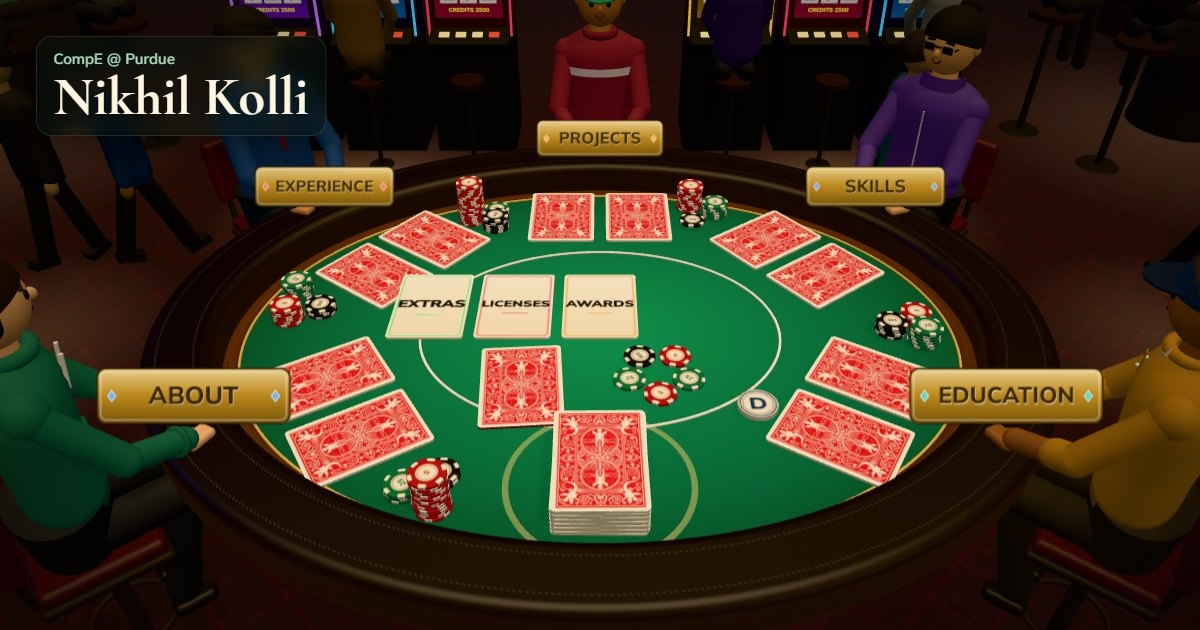
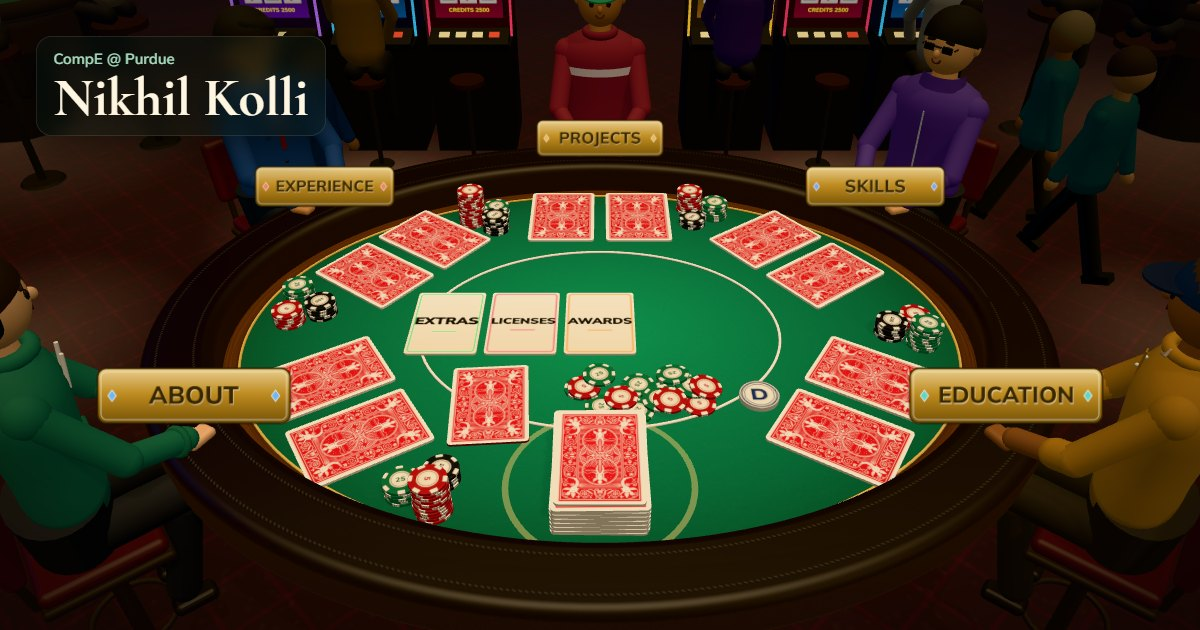
Board in the middle of the felt, a wider pot, burn pile and button moved
- The community cards move down toward the middle of the table, clear of
  the side players' hands (they ran into them before, and overlapped them
  on phones). On the narrower phone table they lie at 92% size, as do the
  burn cards, so five fit in a row.
- The pot is a wider, shallower oval between the board and the deck,
  moved right as asked; the burn pile moves right and down to its left
  and the dealer button slightly right, each clear of the board, the
  deck, the hands and the players' chips on both table sizes.
- Fresh link preview image.

diff --git a/src/three/Card3D.tsx b/src/three/Card3D.tsx
@@ -4,7 +4,7 @@ import { Html } from '@react-three/drei'
 import * as THREE from 'three'
 import { createCardFaces, getReadingFace } from './cardTextures'
 import { getCardGeometry } from './cardGeometry'
-import { CARD, DECK_TOP } from './layout'
+import { BOARD_SCALE, CARD, DECK_TOP } from './layout'
 import type { CardSlot } from './layout'
 import { SETTLED, frameStep } from './frame'
 
@@ -87,14 +87,16 @@ export function Card3D({ slot, dealt, focused, interactive, onToggle }: Card3DPr
     const face = isCommunity ? FACE_UP_X : FACE_DOWN_X
     let tp: [number, number, number] = rest
     let tr: [number, number, number] = [face, slot.yaw, 0]
-    let ts = 1
+    // Board cards rest a little smaller on the phone table (see BOARD_SCALE).
+    const restScale = isCommunity ? BOARD_SCALE : 1
+    let ts = restScale
     if (!outOfDeck) {
       tp = DECK_TOP
       tr = [FACE_DOWN_X, 0, 0]
     } else if (hovered && interactive && !focused) {
       tp = [rest[0], rest[1] + 0.26, rest[2] - 0.1]
       tr = [isCommunity ? face + HOVER_TILT : face - HOVER_TILT, slot.yaw, 0]
-      ts = 1.05
+      ts = restScale * 1.05
     }
 
     const b = base.current
@@ -111,7 +113,7 @@ export function Card3D({ slot, dealt, focused, interactive, onToggle }: Card3DPr
       b.rot[0] = lerp(FACE_DOWN_X, face, e)
       b.rot[1] = lerp(0, slot.yaw, e)
       b.rot[2] = 0
-      b.scale = 1
+      b.scale = lerp(1, restScale, e)
     } else {
       // Time-corrected smoothing so motion takes the same real-world time at
       // any frame rate (≈ the old per-frame 0.16 at 60 fps).
@@ -279,7 +281,7 @@ export function Card3D({ slot, dealt, focused, interactive, onToggle }: Card3DPr
         onPointerOut={onOut}
         onClick={onClick}
       >
-        <boxGeometry args={[CARD.w + 0.06, 0.7, CARD.h + 0.06]} />
+        <boxGeometry args={[CARD.w * (isCommunity ? BOARD_SCALE : 1) + 0.06, 0.7, CARD.h * (isCommunity ? BOARD_SCALE : 1) + 0.06]} />
       </mesh>
 
       {/* Materials are `transparent` at full opacity purely for draw order:

diff --git a/src/three/layout.ts b/src/three/layout.ts
@@ -140,17 +140,26 @@ export interface CommunitySlot extends CardSlot {
   boardIndex: number
 }
 
-/** The five community cards, laid out in a row across the middle of the felt. */
+/**
+ * Board cards lie a little smaller on the narrow phone table, where five
+ * full-size cards in a row would run into the side players' hands.
+ */
+export const BOARD_SCALE = COMPACT_VIEW ? 0.92 : 1
+
+/**
+ * The five community cards, laid out in a row across the middle of the felt,
+ * clear of the hands either side, with the pot between them and the deck.
+ */
 export const communityCards: CommunitySlot[] = communitySections.map(
   (section, i) => {
-    const spacing = CARD.w * 1.14
+    const spacing = CARD.w * BOARD_SCALE * (COMPACT_VIEW ? 1.1 : 1.14)
     const x = (i - (communitySections.length - 1) / 2) * spacing
     return {
       id: `community-${section.id}`,
       section,
       role: 'community',
       handId: 'board',
-      position: [x, CARD.restY, -TABLE.rz * 0.12],
+      position: [x, CARD.restY, COMPACT_VIEW ? -0.1 : -0.2],
       yaw: 0,
       dealIndex: i,
       stage: i < 3 ? 'flop' : i === 3 ? 'turn' : 'river',
@@ -184,10 +193,14 @@ export const DECK_TOP: [number, number, number] = [
 ]
 
 /**
- * Burn cards stack face-down to the left of the pot, clear of its chips and of
- * the near-left seat's hand (closer in on the narrower phone table).
+ * Burn cards stack face-down to the left of the pot, clear of its chips, the
+ * board and the near-left seat's hand (closer in on the narrower phone table).
+ * They're the board's size.
  */
-export const BURN_POSITION: [number, number, number] = [COMPACT_VIEW ? -1.6 : -1.85, CARD.restY, 1.12]
+export const BURN_POSITION: [number, number, number] = COMPACT_VIEW ? [-1.3, CARD.restY, 1.45] : [-1.4, CARD.restY, 1.55]
+
+/** The dealer button, to the right of the pot. */
+export const BUTTON_POSITION: [number, number] = COMPACT_VIEW ? [1.9, 1.3] : [2.1, 1.75]
 
 export interface SeatAnchor {
   seatId: string

diff --git a/src/three/Chips.tsx b/src/three/Chips.tsx
@@ -2,7 +2,7 @@ import { useEffect, useMemo, useRef } from 'react'
 import { useFrame, useThree } from '@react-three/fiber'
 import * as THREE from 'three'
 import { mergeGeometries } from 'three/addons/utils/BufferGeometryUtils.js'
-import { COMPACT_VIEW, TABLE, chipSpots } from './layout'
+import { BUTTON_POSITION, COMPACT_VIEW, TABLE, chipSpots } from './layout'
 import { getChipTextures } from './chipTexture'
 import { frameStep } from './frame'
 
@@ -35,16 +35,16 @@ function jitter(n: number): number {
 }
 
 /**
- * The pot: a wide oval in front of the board, reaching left toward the burn
- * pile, with the deck in front of it and the dealer button to its right.
+ * The pot: a wide, shallow oval between the board and the deck, with the burn
+ * pile to its left and the dealer button to its right.
  */
-const POT_CENTER: [number, number] = [0.2, 1.1]
+const POT_CENTER: [number, number] = COMPACT_VIEW ? [0.4, 1.24] : [0.6, 1.22]
 /**
  * Half-widths of the oval a thrown chip can land in (x across, z toward the
- * deck); a little narrower on the phone table, where the burn pile is closer.
+ * deck); a little smaller on the phone table, which is narrower.
  */
-const POT_RX = COMPACT_VIEW ? 0.8 : 1.05
-const POT_RZ = 0.45
+const POT_RX = COMPACT_VIEW ? 0.95 : 1.2
+const POT_RZ = COMPACT_VIEW ? 0.34 : 0.36
 
 /** Each seat's bankroll: how many chips of each denomination (see CHIPS). */
 const COUNTS = [
@@ -448,7 +448,7 @@ export function Chips({ rounds }: { rounds: number }) {
   return (
     <>
       <TableChips rounds={rounds} />
-      <DealerButton position={[1.85, FELT_Y + (CHIP_H * 1.3) / 2, 1.5]} />
+      <DealerButton position={[BUTTON_POSITION[0], FELT_Y + (CHIP_H * 1.3) / 2, BUTTON_POSITION[1]]} />
     </>
   )
 }

diff --git a/src/three/Scene.tsx b/src/three/Scene.tsx
@@ -13,6 +13,7 @@ import {
   DECK_CARDS,
   DECK_POSITION,
   BURN_POSITION,
+  BOARD_SCALE,
   CARD,
   CAMERA_HOME,
   FLOOR,
@@ -174,6 +175,7 @@ function BurnPile({ boardStage }: { boardStage: number }) {
           position-y={i * CARD.thickness * 1.04}
           rotation-x={-Math.PI / 2}
           rotation-z={burnRestAngle(i)}
+          scale={BOARD_SCALE}
         >
           <meshStandardMaterial attach="material-0" map={back} roughness={0.6} />
           <meshStandardMaterial attach="material-1" map={back} roughness={0.6} />
@@ -183,7 +185,7 @@ function BurnPile({ boardStage }: { boardStage: number }) {
       {/* The most-recently burned card, tossed in from the deck */}
       {boardStage > 0 && (
         <group ref={flyRef}>
-          <mesh geometry={getCardGeometry()}>
+          <mesh geometry={getCardGeometry()} scale={BOARD_SCALE}>
             <meshStandardMaterial attach="material-0" map={back} roughness={0.6} />
             <meshStandardMaterial attach="material-1" map={back} roughness={0.6} />
             <meshStandardMaterial attach="material-2" color="#8c1a26" roughness={0.6} />
